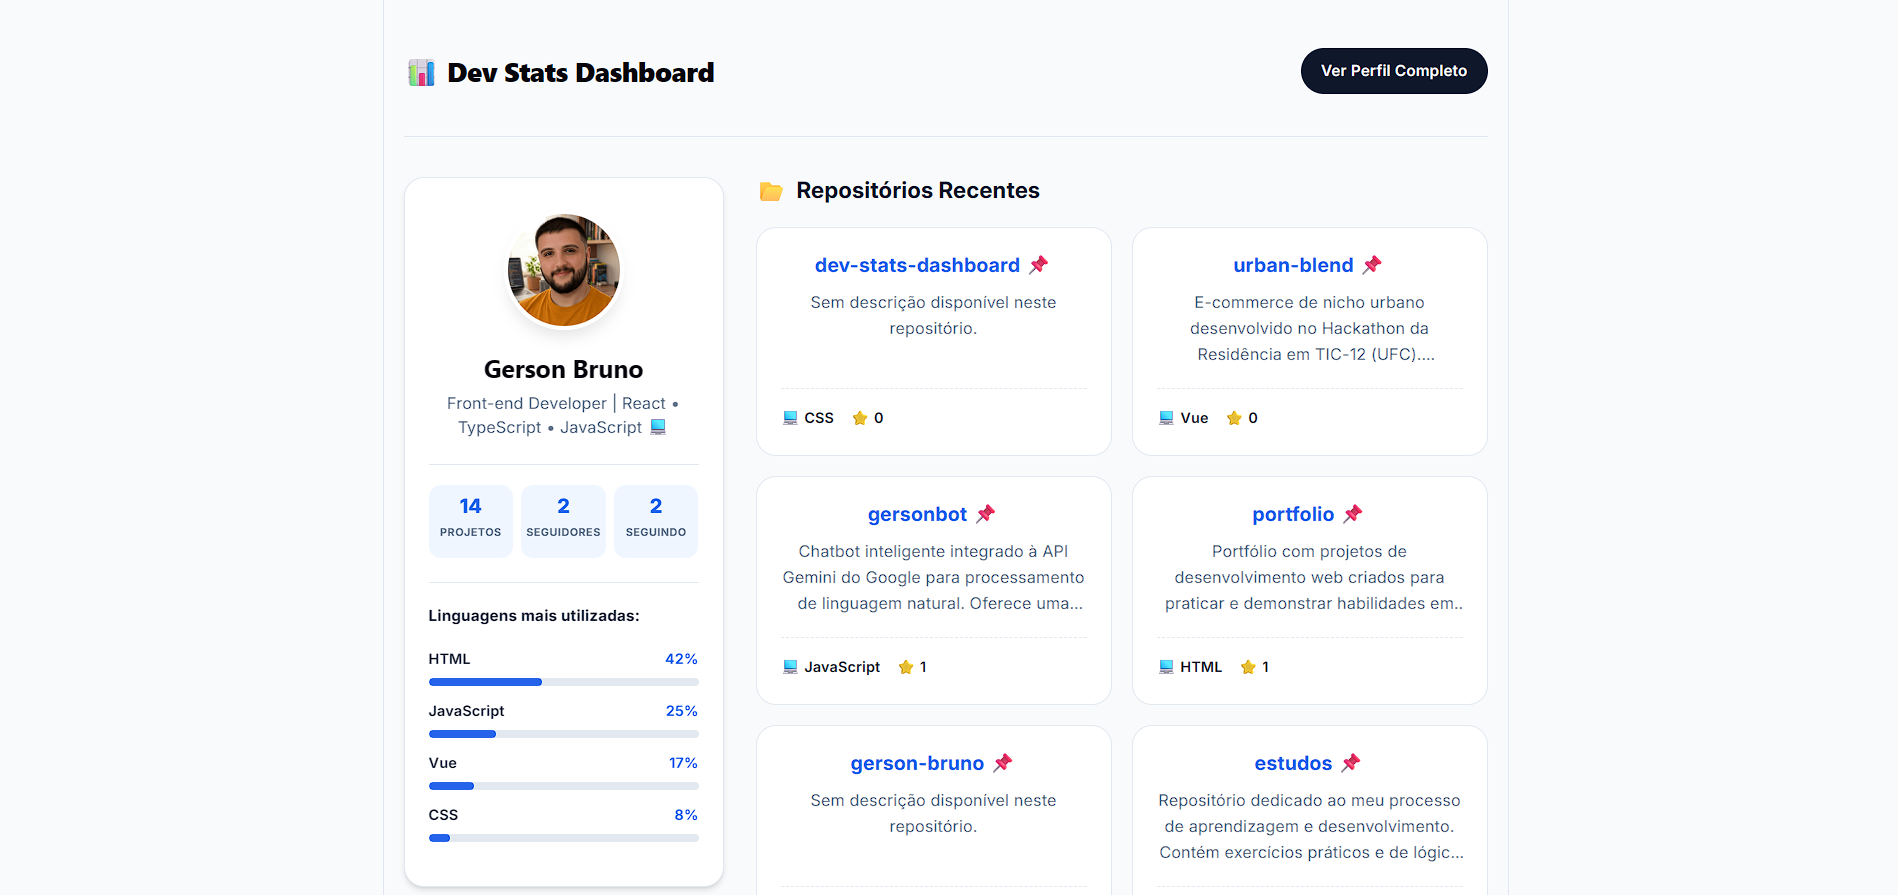
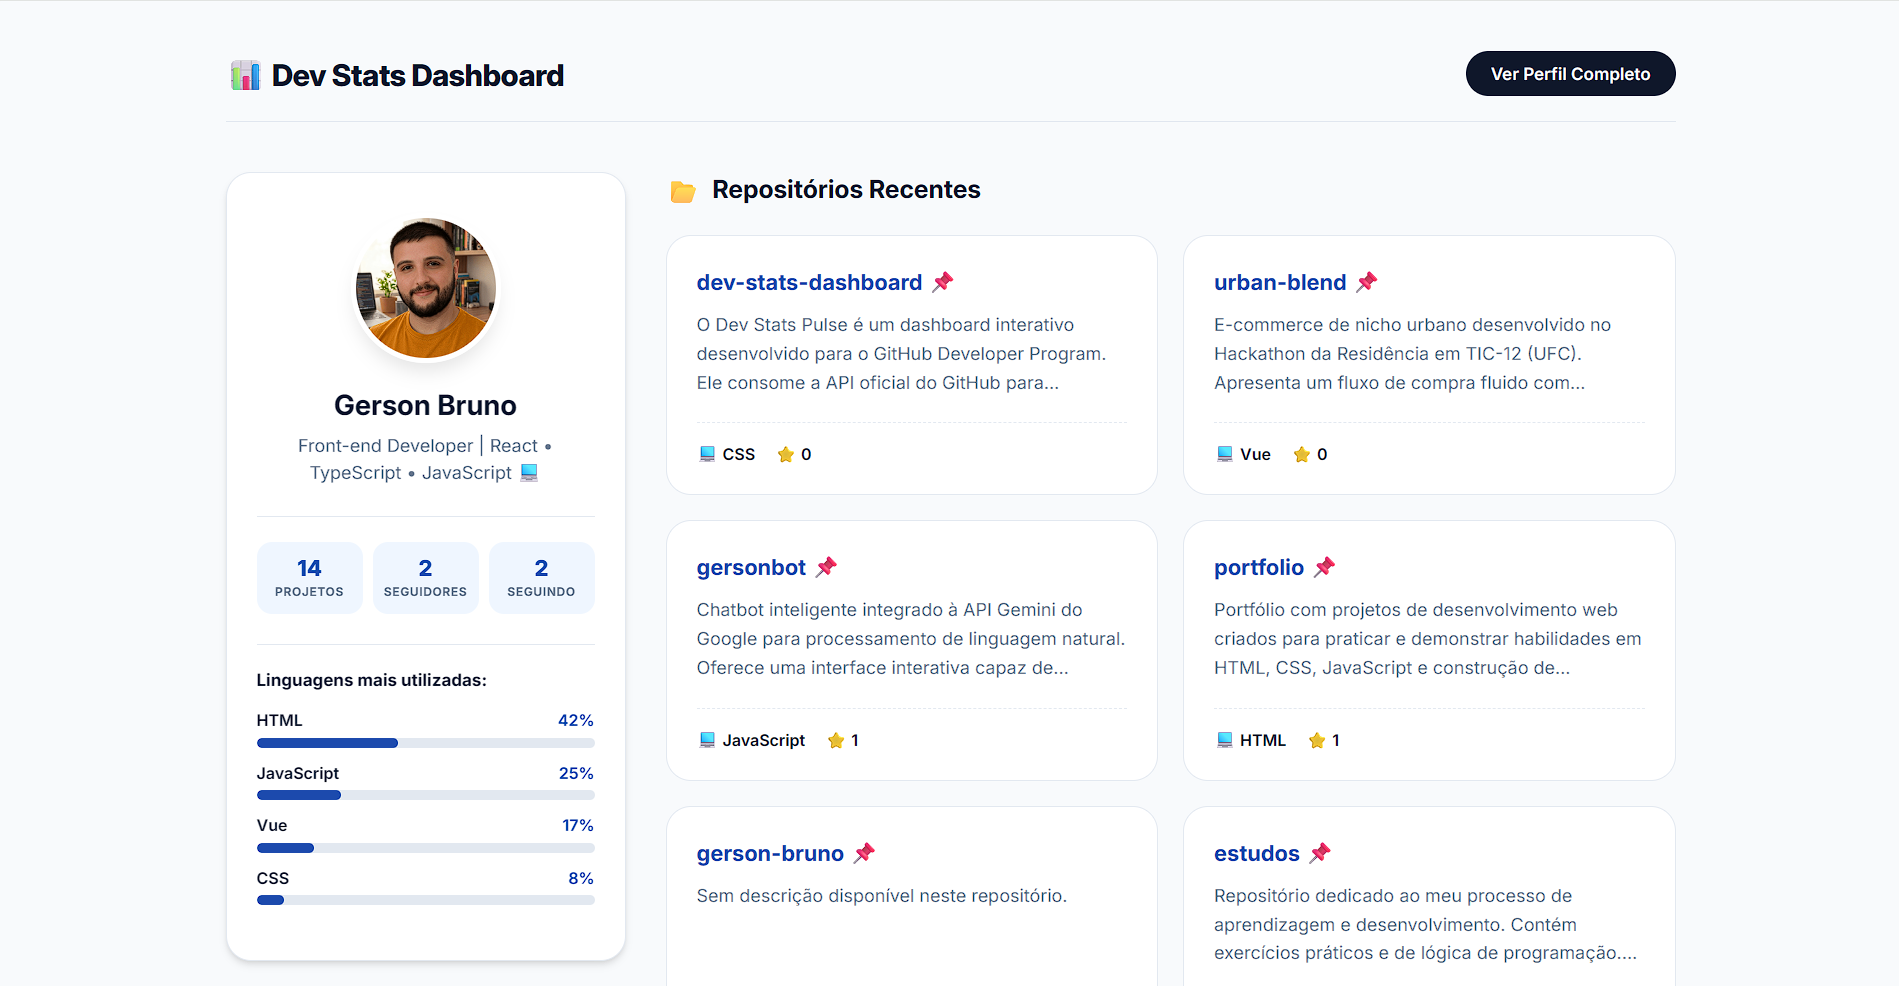
update css and readme

diff --git a/src/App.css b/src/App.css
@@ -1,7 +1,7 @@
 @import url('https://fonts.googleapis.com/css2?family=Inter:ital,opsz,wght@0,14..32,100..900;1,14..32,100..900&display=swap');
 
 :root {
-  --primary: #2563eb;
+  --primary: #1c4aad;
   --primary-light: #eff6ff;
   --bg-body: #f8fafc;
   --bg-card: #ffffff;
